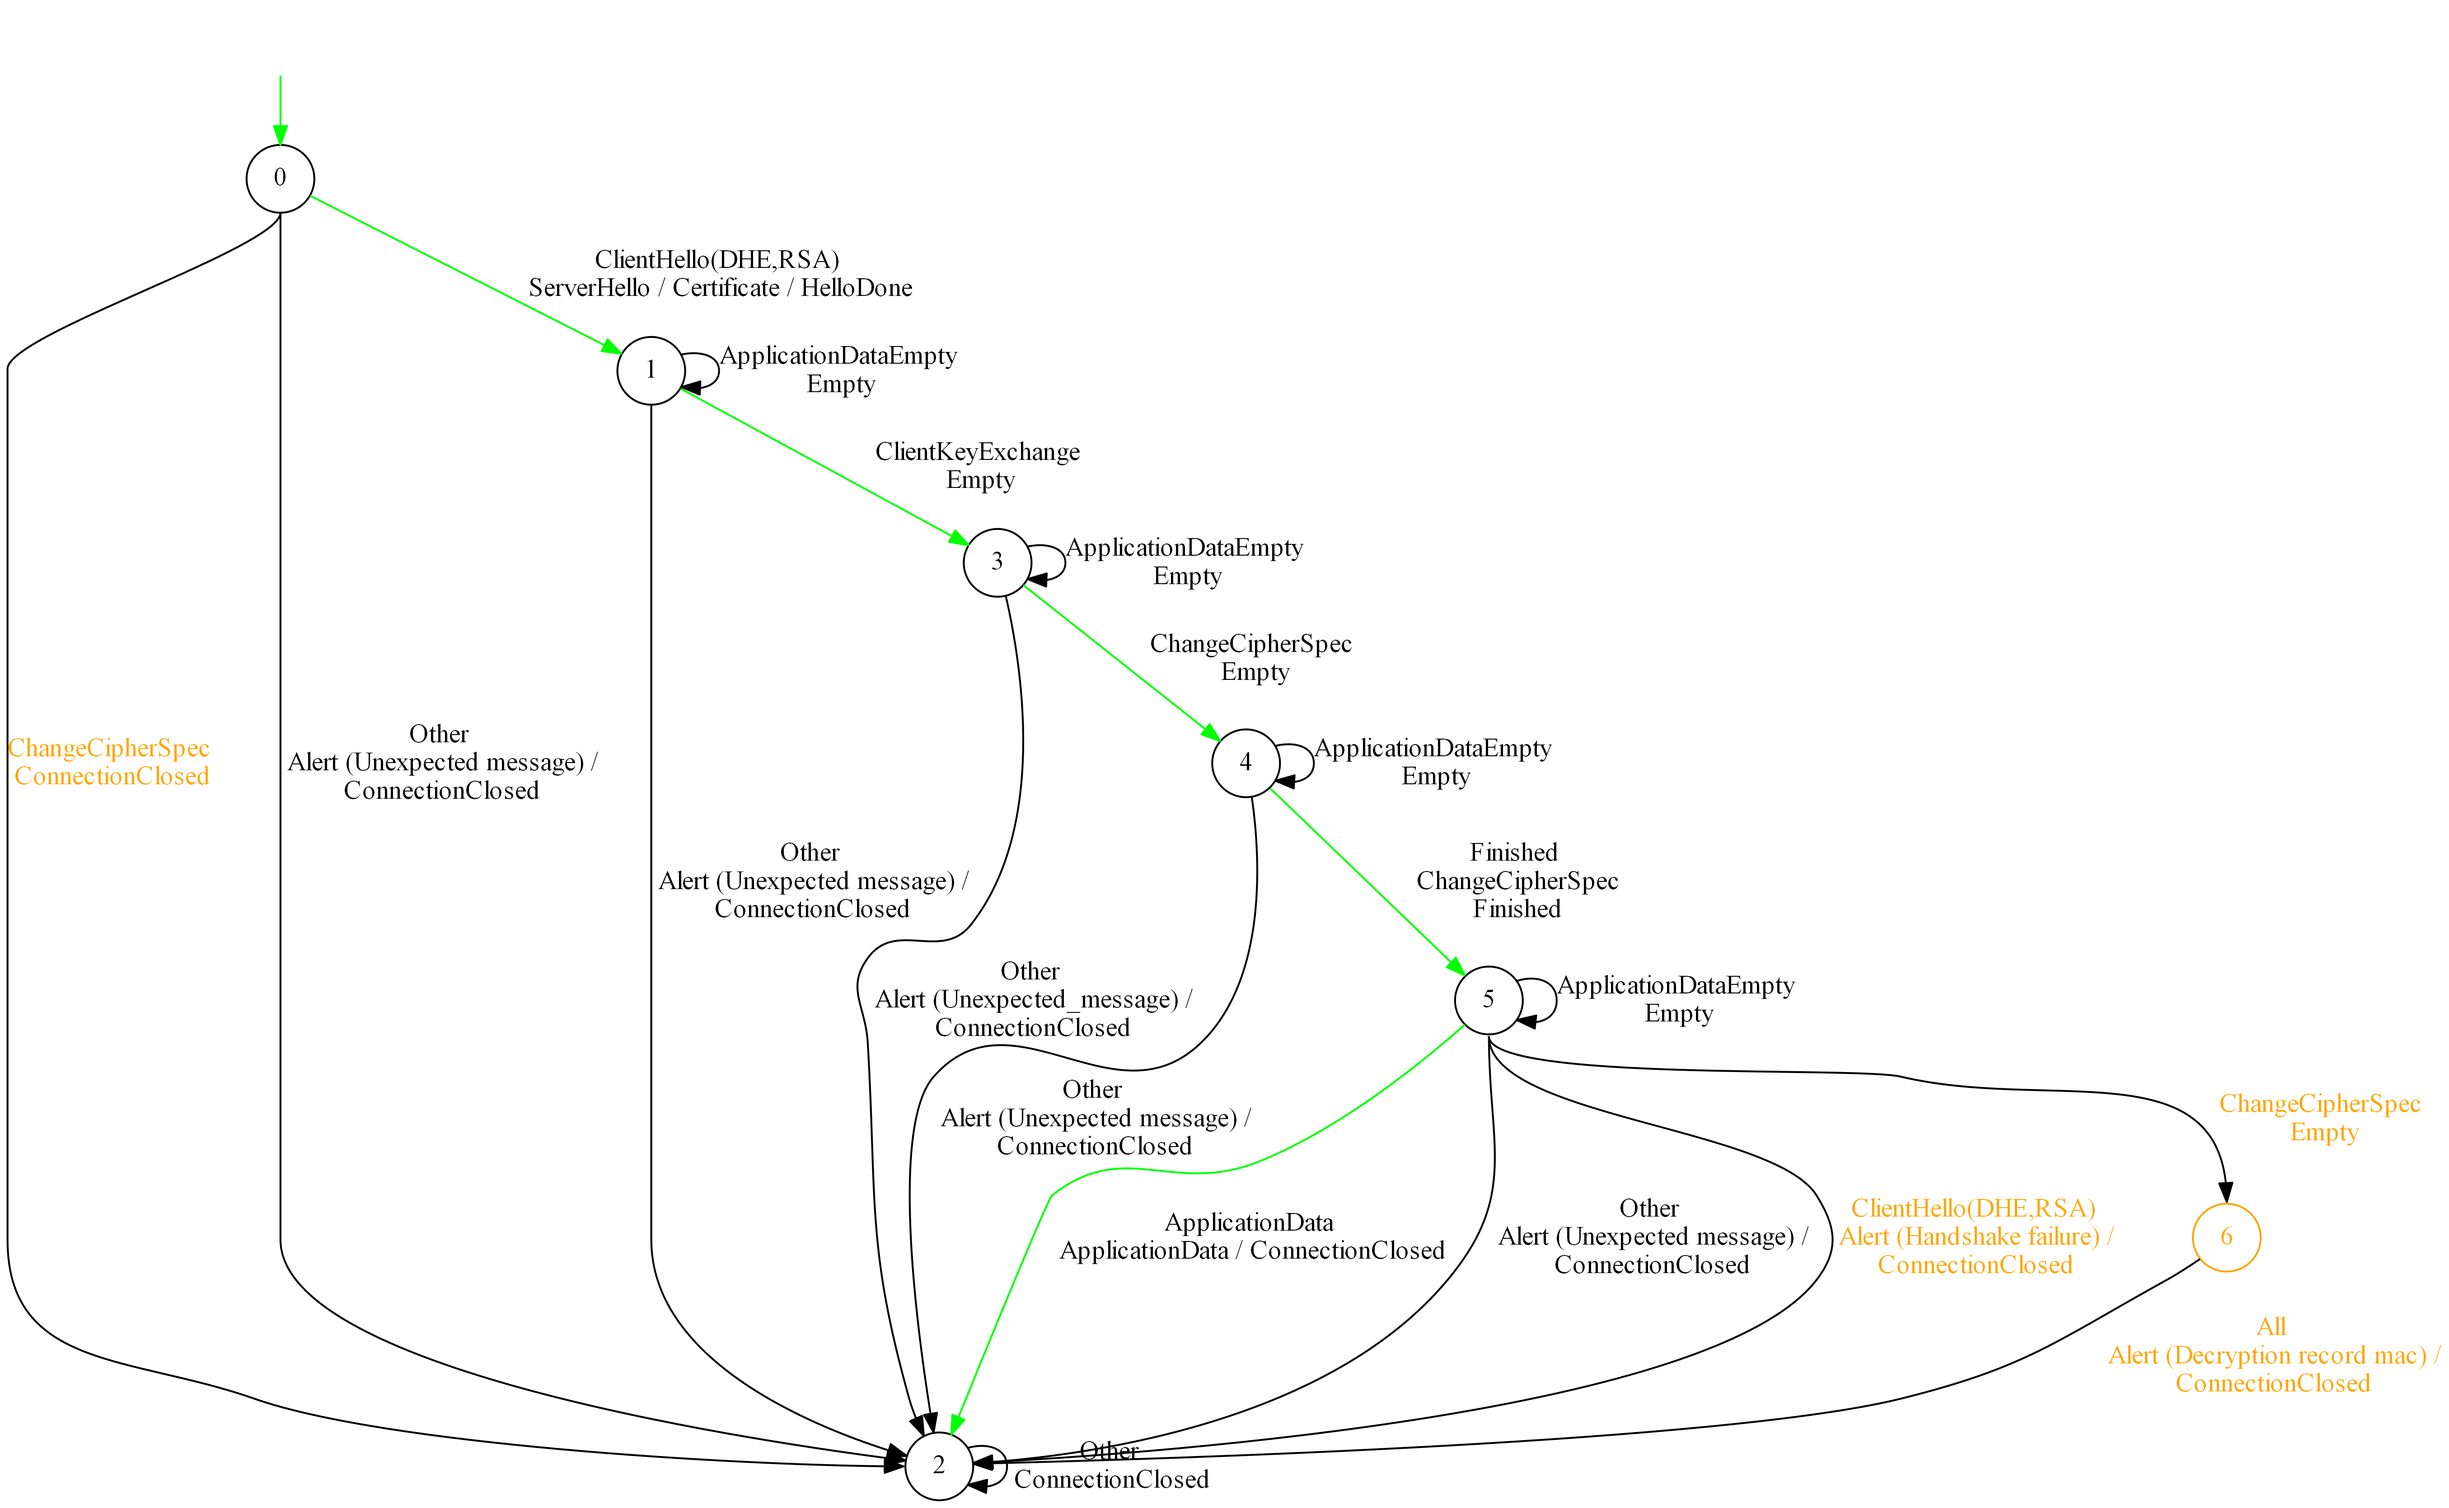
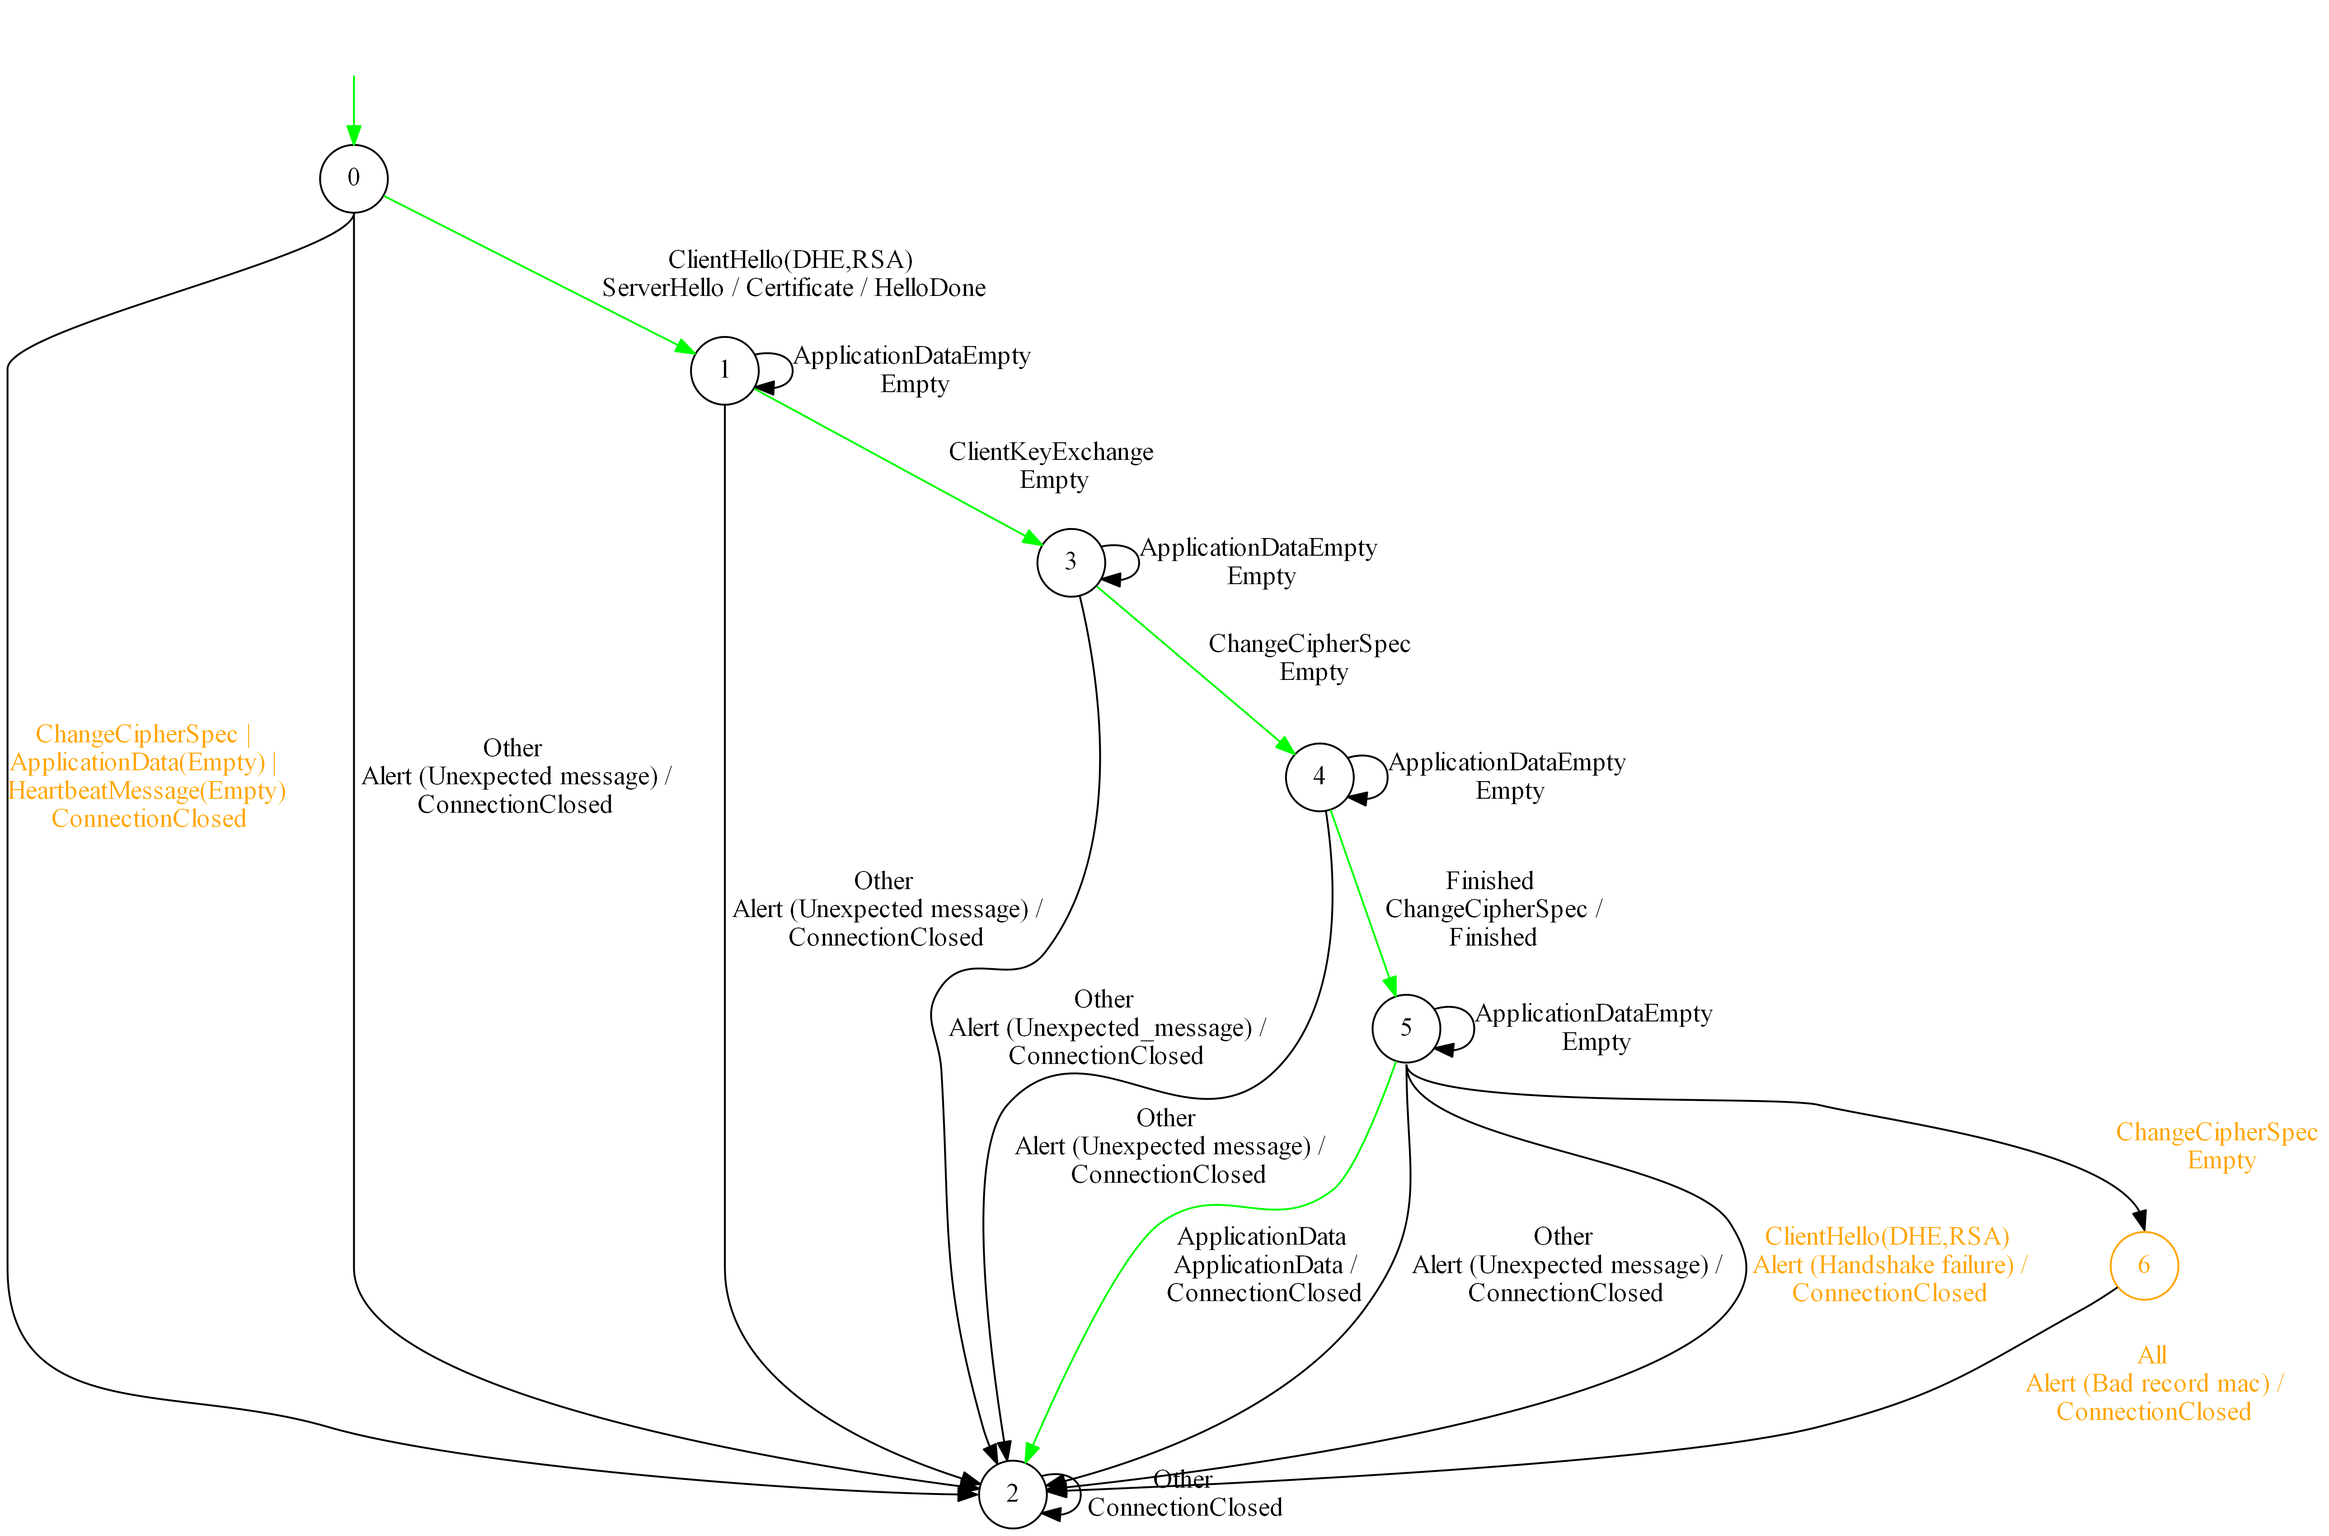
md update graphs 6

diff --git a/README.md b/README.md
@@ -87,14 +87,15 @@ MAYBE TODO
 ## Results
 After setting up everything, the State Learner will try to build a state machine of the choosen TLS server implementation. This results in a `.dot` file and `.pdf` showing the hypotheses and final state machines. 
 The visualizations of these graphs are very large due to the large number of input and output types (the alphabet). Therefore, we merged equivalent state changes and labeled them 'Other' or 'All'.
-We included a state machine graph visualization for ea number of TLS server implementations. (TODO)
+We included a state machine graph visualization for a number of specific TLS server implementations.
 
 ### OpenSSL 1.0.2
 ![OpenSSL 1.0.2 state machine diagram](/graphs/OpenSSL_1.0.2.png?raw=true "OpenSSL 1.0.2 state machine diagram")
 TODO Some explanation about the states of the graph 
 
 ### OpenSSL 1.1.0e
-TODO
+![OpenSSL 1.1.0e state machine diagram](/graphs/OpenSSL_1.1.0e.png?raw=true "OpenSSL 1.1.0e state machine diagram")
+TODO Some explanation about the states of the graph 
 
 ### BearSSL 0.4
 TODO
